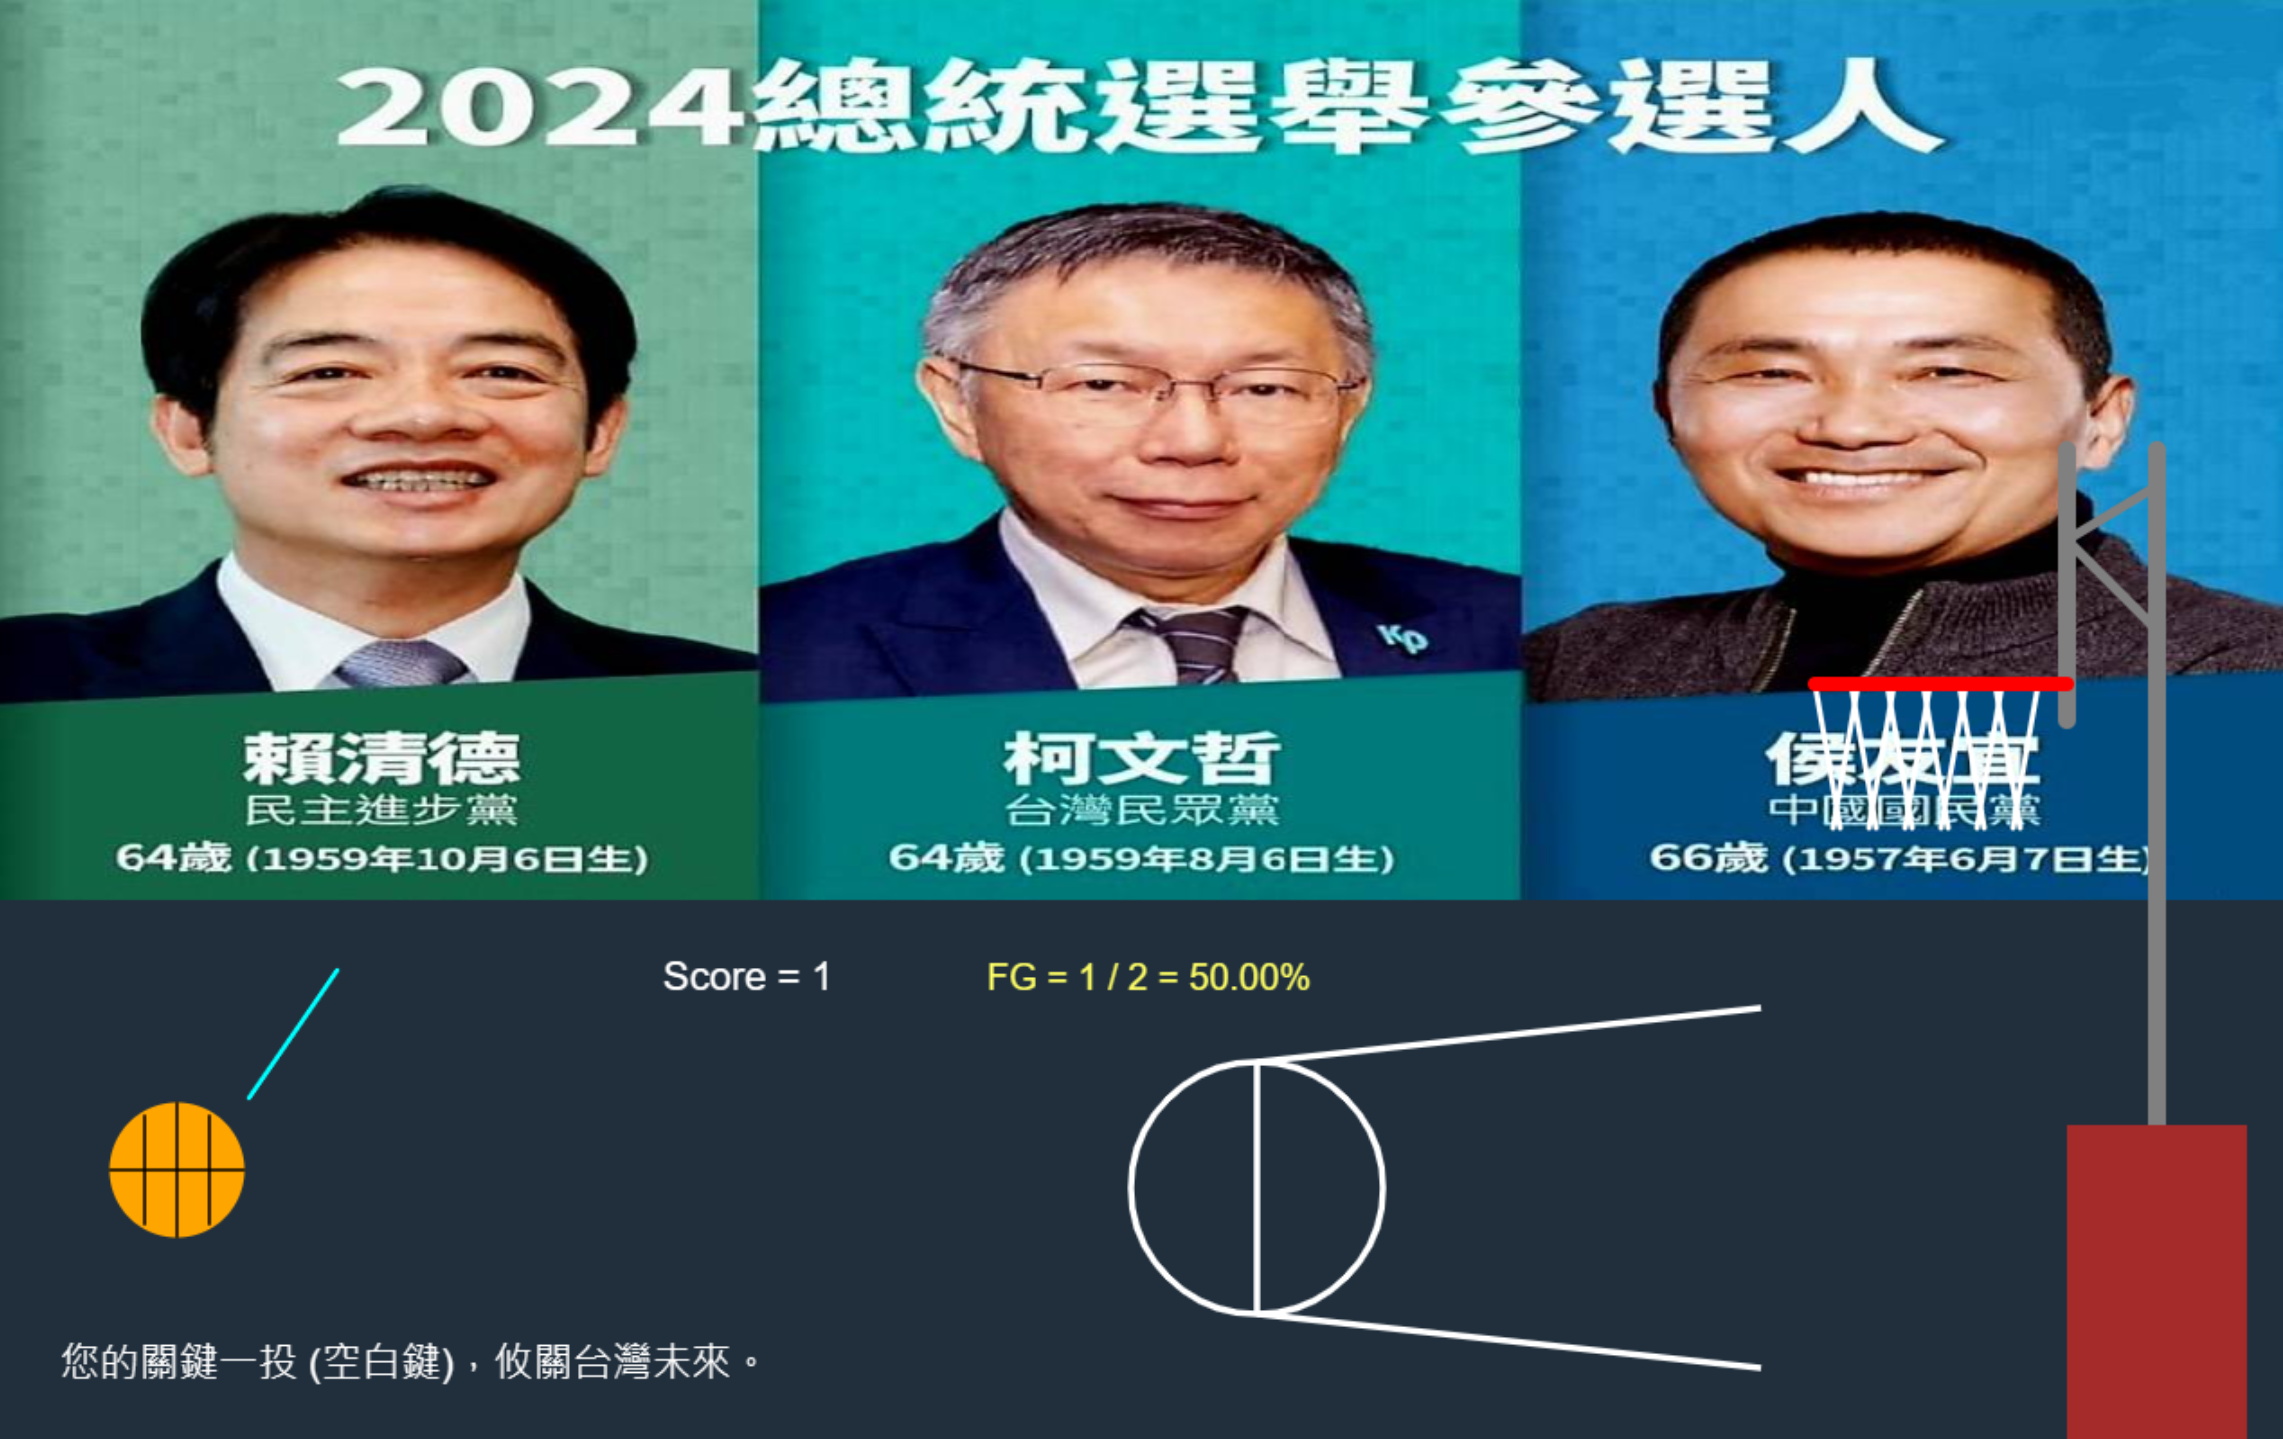
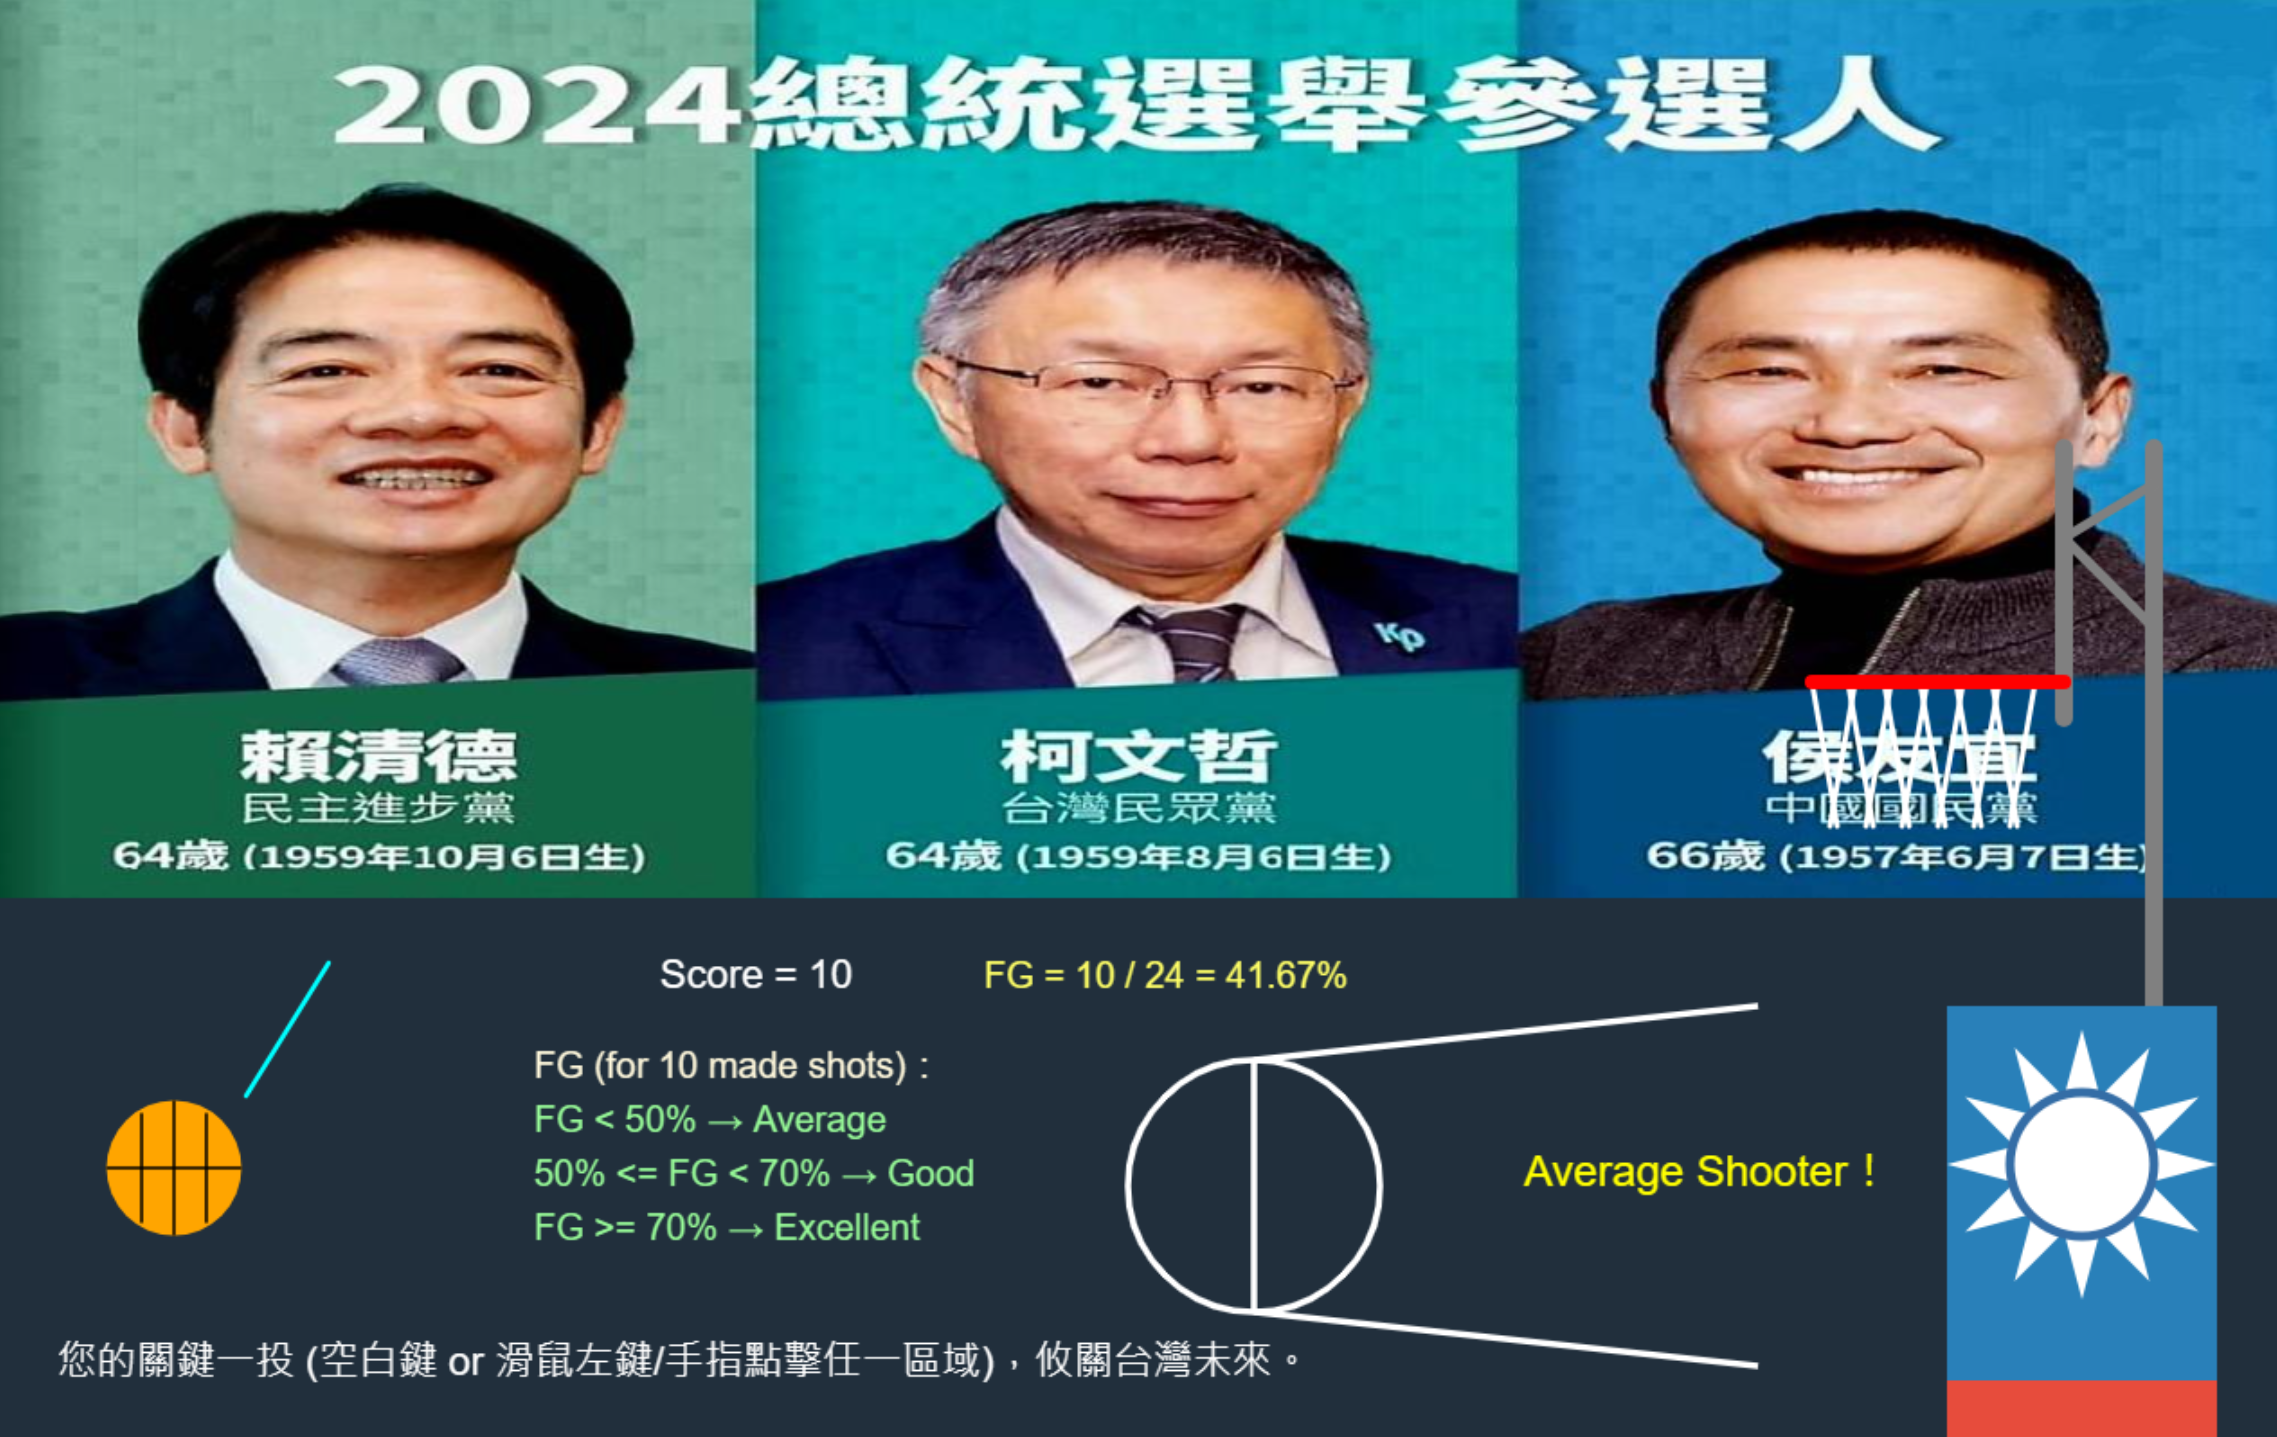
latest

diff --git a/js/basketball.js b/js/basketball.js
@@ -321,8 +321,11 @@ Hoop.prototype.draw = function (ctx) {
 	ctx.closePath();
 	//base
 	ctx.beginPath();
-	ctx.fillStyle = 'brown';
-	ctx.fillRect(this.hoopEndX - 50, this.hoopEndY - 175, 100, 180);
+	//ctx.fillStyle = 'lightblue';
+	const image = document.createElement('img');
+	image.src = 'images/flag.png';
+	ctx.fillStyle = ctx.createPattern(image,'repeat');
+	ctx.fillRect(this.hoopEndX - 115, this.hoopEndY - 240, 150, 250);
 	ctx.closePath();
 };
 

diff --git a/index.html b/index.html
@@ -13,6 +13,7 @@
 	<script src="https://ajax.googleapis.com/ajax/libs/jquery/1.12.2/jquery.min.js"></script>
 </head>
 <body id="gameBody">
+	<!-- <img src="images/flag.png" id="taiwan" width="32" height="32"> -->
 	<script src="js/main.js"></script>
 	<script src="js/basketball.js"></script>
 	<div id='canvasDiv'>
